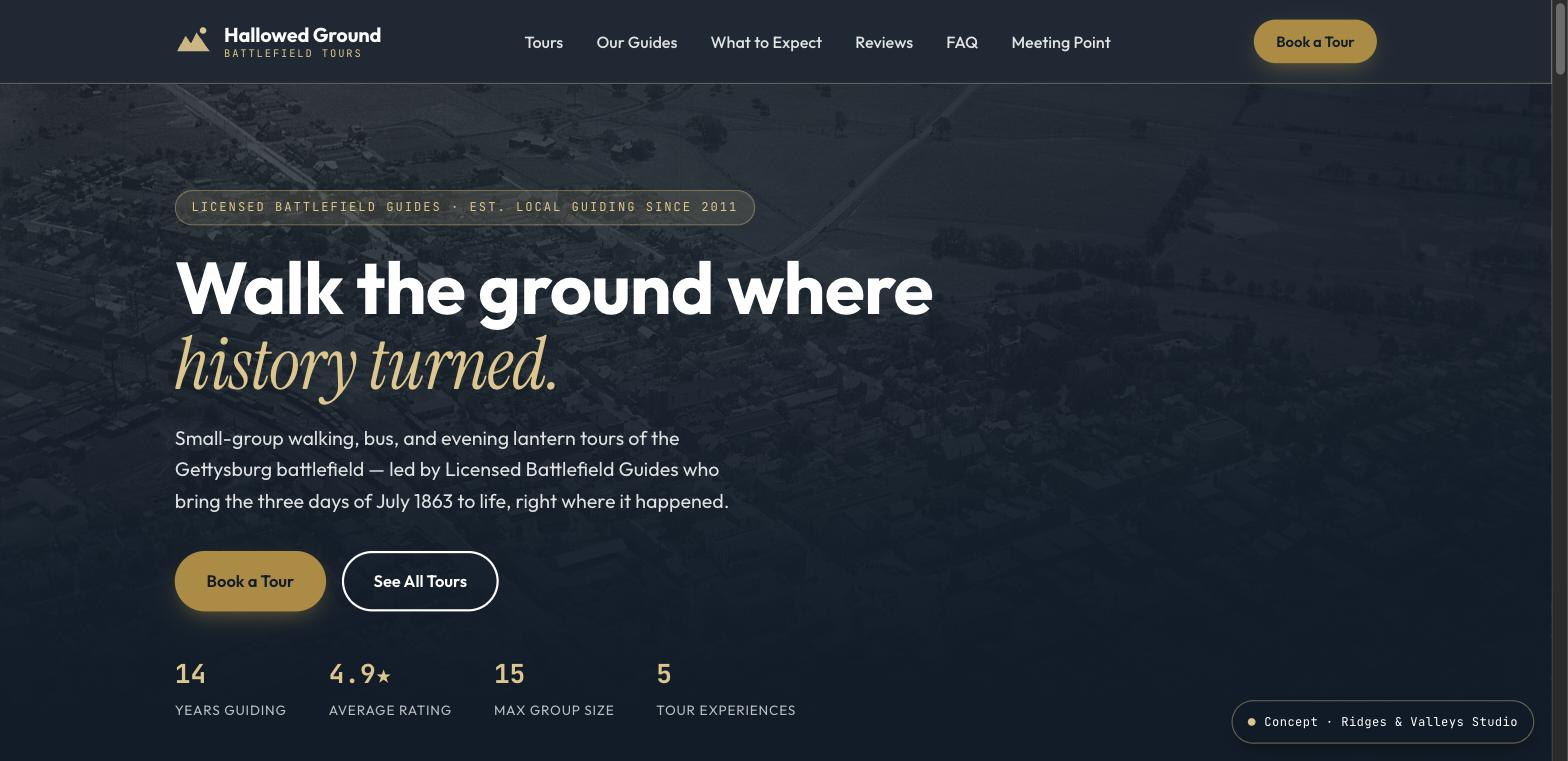
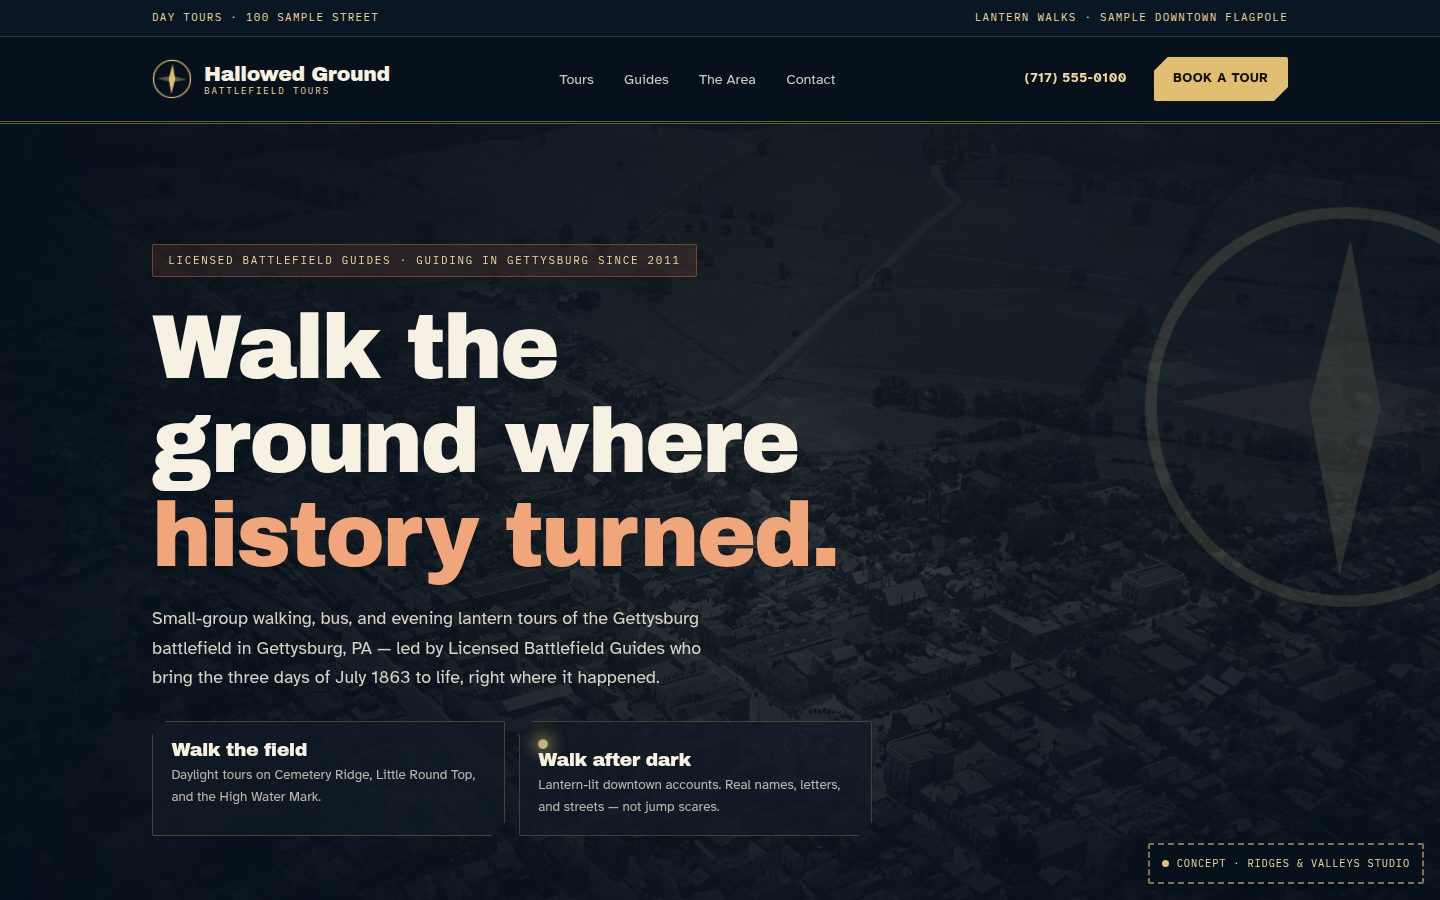
Refresh Hallowed Ground concept copy and homepage-hero featured image.
Align the Work case study with the standalone theme README (licensed-guide
positioning, demo booking, Sage + WooCommerce handoff) and set the featured
image from the live homepage first viewport.

diff --git a/web/app/themes/ridgesandvalleys-theme/app/projects.php b/web/app/themes/ridgesandvalleys-theme/app/projects.php
@@ -414,15 +414,17 @@ function concept_project_seeds(): array
         ],
         [
             'folder' => 'tour-hallowed-ground-tours', 'repo' => 'tour-hallowed-ground-tours-theme', 'title' => 'Hallowed Ground Battlefield Tours', 'type' => 'Tours',
-            'eyebrow' => 'Concept · Guided tours', 'industry' => 'Tourism · Guided tours',
-            'summary' => 'A battlefield-tour concept with a five-step, book-and-pay ticketing flow.',
-            'services' => 'Web design, Ticketing, Payments UX',
-            'challenge' => "Tour companies lose bookings to 'call to reserve.' Visitors plan at night, on their phones, and want to pay now — not leave a voicemail and hope someone calls back.",
-            'approach' => "A five-step booking-and-payment flow: pick a tour, pick a time, choose tickets with a live total, and check out — with a clean demo payment UX and an instant confirmation.",
-            'result' => "A concept that captures the booking at the moment of intent, computes the total live, and confirms on the spot — no phone tag, no sales lost after hours.",
-            'metrics' => [['Book + pay', 'online'], ['Live', 'ticket totals'], ['Instant', 'confirmation']],
-            'deliverables' => "Tour catalog\n5-step booking flow\nTicket + payment UX\nGuide bios + FAQ\nMobile-first, accessible build",
-            'tech' => 'WordPress, Sage, Stripe-ready',
+            'eyebrow' => 'Concept · Licensed-guide tours', 'industry' => 'Tourism · Guided tours',
+            'summary' => 'A Gettysburg licensed-guide tour concept: historical vs after-dark pathways, five tours, an OpenLayers battlefield map, and a Sage + WooCommerce handoff.',
+            'services' => 'Web design, Tour catalog UX, Booking concept, Interactive map, Local SEO',
+            'timeline' => 'Static HTML concept · Sage later',
+            'challenge' => "A licensed-guide company selling small-group walking, bus, hike, lantern, and private sunrise tours needs a site that looks like a field dispatch — compass, ticket-cut cards, slate + gold — not a food-tour sibling brand. Call-to-reserve sites lose the people who plan at night on their phones; a checkout that pretends to charge a card is worse.",
+            'approach' => "I built the working HTML as the front-end contract for a later Sage + WooCommerce theme. Home splits daylight field walks vs lantern walks; the catalog filters all five tours; guides stay licensed roles, not invented people; The Area is an OpenLayers map (~800 OSM monuments, satellite, guest itinerary PDF). Sage comments in the markup mark the Blade handoff. Until that theme ships, booking and contact stay honest demos — they do not charge a card or send production email unless Netlify Forms is on.",
+            'result' => "A clickable GitHub Pages / Netlify demo with a distinct identity from First Shot. NAP is labeled fiction (100 Sample Street, (717) 555-0100, tours@hallowedground.test). Parking copy stays generic downtown lots. When WordPress ships, WooCommerce picks up the same pages.",
+            'metrics' => [['5', 'named tours'], ['~800', 'map monuments'], ['Sage + Woo', 'intended stack']],
+            'deliverables' => "Home with historical / after-dark pathways\nFive-tour catalog + filters\nLicensed-guide positioning (roles, not invented bios)\nThe Area map (OpenLayers, satellite, itinerary PDF)\nMulti-step booking concept (demo — no card charge)\nContact + FAQ (demo form)\nSage comments for the WordPress handoff",
+            'tech' => 'Static HTML, OpenLayers, OSM, Esri World Imagery, Netlify Forms, Sage-ready',
+            'set_thumbnail' => true,
         ],
         [
             'folder' => 'tour-first-shot-food-tours', 'repo' => 'tour-first-shot-food-tours-theme', 'title' => 'First Shot Food & History Tours', 'type' => 'Tours',
@@ -475,6 +477,11 @@ function seed_concept_projects(): void
 
         if ($existing) {
             $post_id = $existing->ID;
+            wp_update_post([
+                'ID'           => $post_id,
+                'post_title'   => $c['title'],
+                'post_excerpt' => $c['summary'],
+            ]);
         } else {
             $post_id = wp_insert_post([
                 'post_type'    => 'project',
@@ -493,6 +500,9 @@ function seed_concept_projects(): void
         update_post_meta($post_id, '_rv_summary', $c['summary']);
         update_post_meta($post_id, '_rv_industry', $c['industry']);
         update_post_meta($post_id, '_rv_location', 'Gettysburg, PA');
+        if (! empty($c['timeline'])) {
+            update_post_meta($post_id, '_rv_timeline', $c['timeline']);
+        }
         update_post_meta($post_id, '_rv_services', $c['services']);
         update_post_meta($post_id, '_rv_url', concept_demo_url($c['folder']));
         update_post_meta($post_id, '_rv_preview', concept_preview_uri($c['folder']));
@@ -510,23 +520,84 @@ function seed_concept_projects(): void
         }
 
         wp_set_object_terms($post_id, $c['type'], 'project_type');
+
+        if (! empty($c['set_thumbnail'])) {
+            seed_concept_thumbnail((int) $post_id, (string) $c['folder']);
+        }
+    }
+}
+
+/**
+ * Sideload a concept homepage screenshot as the Project featured image.
+ * Skips when the current thumbnail already matches this theme file.
+ */
+function seed_concept_thumbnail(int $post_id, string $folder): void
+{
+    $folder = sanitize_file_name($folder);
+    $path = get_theme_file_path('assets/concept-previews/' . $folder . '.jpg');
+    if ($folder === '' || ! is_file($path)) {
+        return;
+    }
+    $hash = md5_file($path);
+    if ($hash === false) {
+        return;
+    }
+    $existing = (int) get_post_thumbnail_id($post_id);
+    if ($existing && (string) get_post_meta($post_id, '_rv_thumb_hash', true) === $hash) {
+        return;
+    }
+
+    require_once ABSPATH . 'wp-admin/includes/file.php';
+    require_once ABSPATH . 'wp-admin/includes/media.php';
+    require_once ABSPATH . 'wp-admin/includes/image.php';
+
+    $tmp = wp_tempnam($path);
+    if (! $tmp || ! copy($path, $tmp)) {
+        return;
+    }
+
+    $attach_id = media_handle_sideload([
+        'name'     => $folder . '-home-hero.jpg',
+        'tmp_name' => $tmp,
+    ], $post_id, sprintf(
+        /* translators: %s: project title */
+        __('%s homepage — navigation and hero', 'sage'),
+        get_the_title($post_id)
+    ));
+    if (is_wp_error($attach_id)) {
+        @unlink($tmp);
+
+        return;
+    }
+
+    set_post_thumbnail($post_id, (int) $attach_id);
+    update_post_meta($post_id, '_rv_thumb_hash', $hash);
+    if ($existing && $existing !== (int) $attach_id) {
+        wp_delete_attachment($existing, true);
     }
 }
 
 /**
  * Run the concept seed once per version. Bump the version to refresh content
- * or add newly-created concepts.
+ * or add newly-created concepts. Front-end init (not only wp-admin) so a
+ * deploy can refresh live Project posts on the next public request.
  */
-add_action('admin_init', function () {
-    if (get_option('rv_concepts_seed_v') === '5') {
+function maybe_seed_concept_projects(): void
+{
+    if (get_option('rv_concepts_seed_v') === '6') {
         return;
     }
-    if (! current_user_can('edit_posts')) {
+    if (get_transient('rv_concepts_seeding')) {
         return;
     }
+    set_transient('rv_concepts_seeding', '1', MINUTE_IN_SECONDS);
     seed_concept_projects();
-    update_option('rv_concepts_seed_v', '5');
-});
+    update_option('rv_concepts_seed_v', '6');
+    delete_transient('rv_concepts_seeding');
+}
+
+add_action('init', __NAMESPACE__ . '\\maybe_seed_concept_projects', 30);
+add_action('admin_init', __NAMESPACE__ . '\\maybe_seed_concept_projects');
 
 /**
  * Flush rewrite rules on theme switch so /work/ resolves.

diff --git a/CHANGELOG.md b/CHANGELOG.md
@@ -45,6 +45,11 @@ Categories: `Added`, `Changed`, `Deprecated`, `Removed`, `Fixed`, `Security`.
 
 ### Changed
 
+- **Hallowed Ground Battlefield Tours concept** — Work case study copy now
+  matches the standalone repo (`tour-hallowed-ground-tours-theme`): licensed-guide
+  positioning, dual day/night pathways, five tours, OpenLayers map, and an
+  honest demo booking/contact note until Sage + WooCommerce ships. Featured
+  image is the live homepage first viewport (nav + hero). Seed version 6.
 - **Free Tools page design** — featured Website Grader card, filter chips,
   numbered how-to, proof ribbon in the hero, and on-page calculators kept as
   built-in tools (not blocks). Hero H1/lede use the full content width, with
